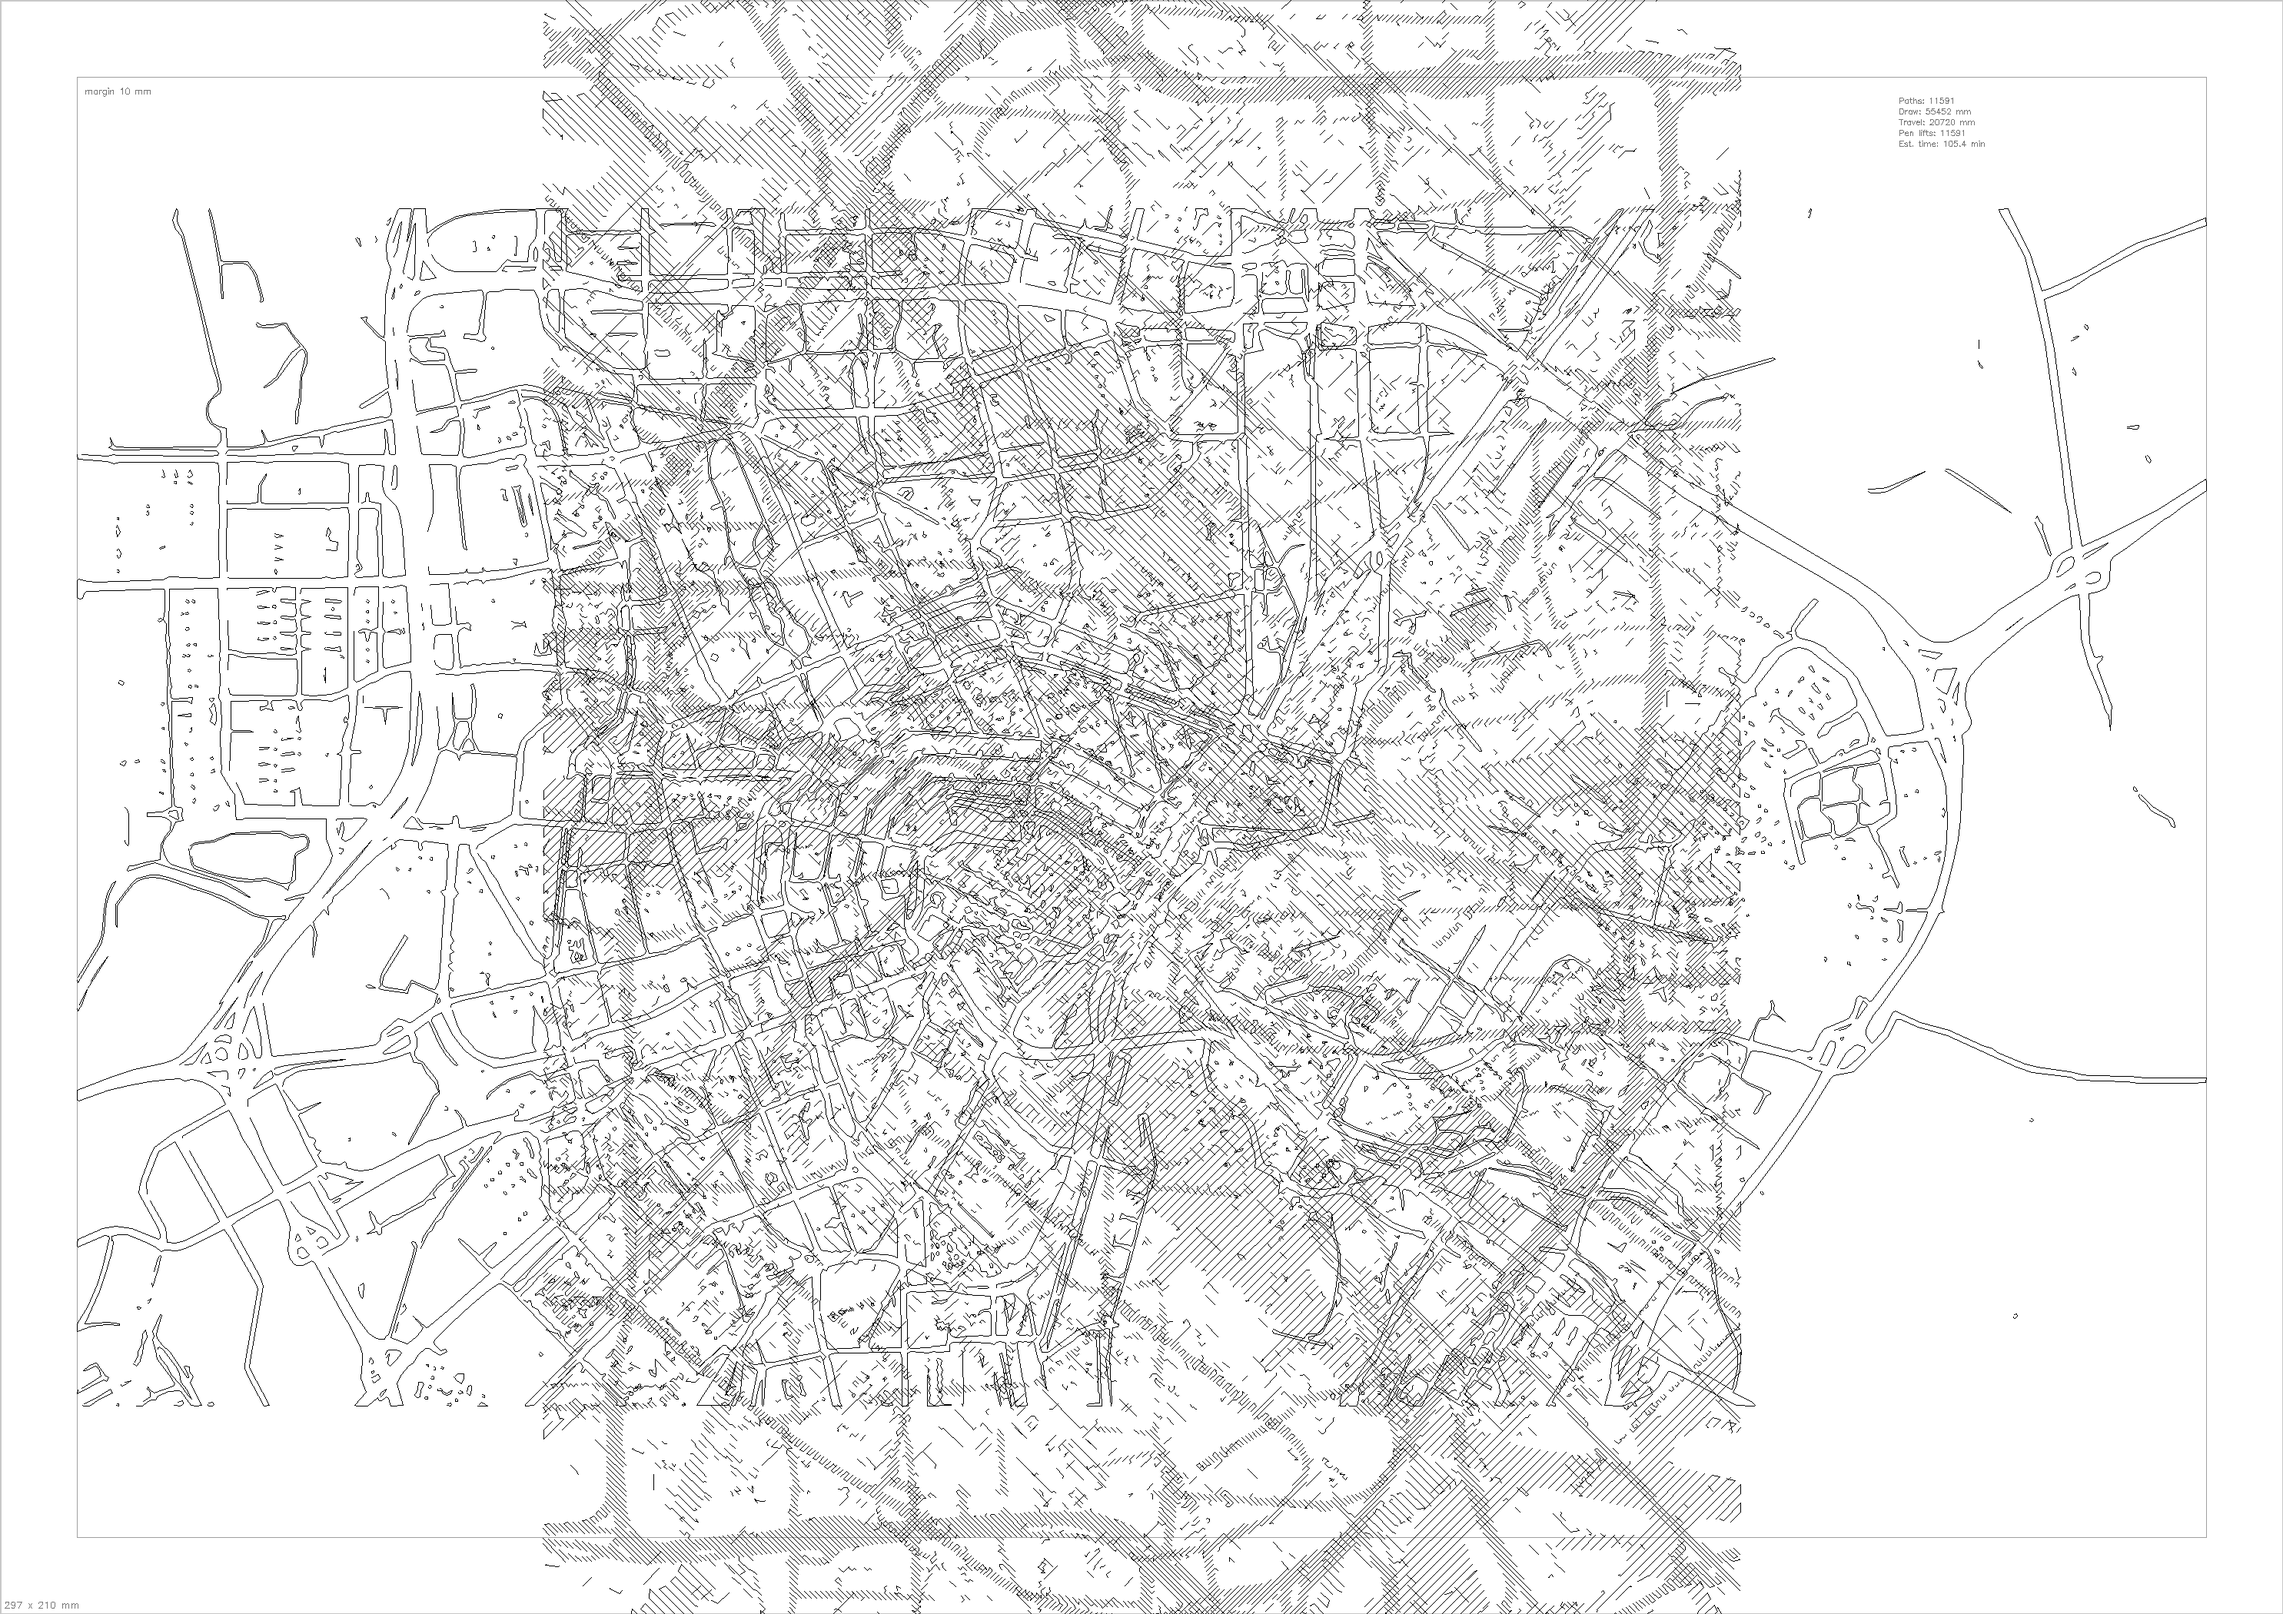
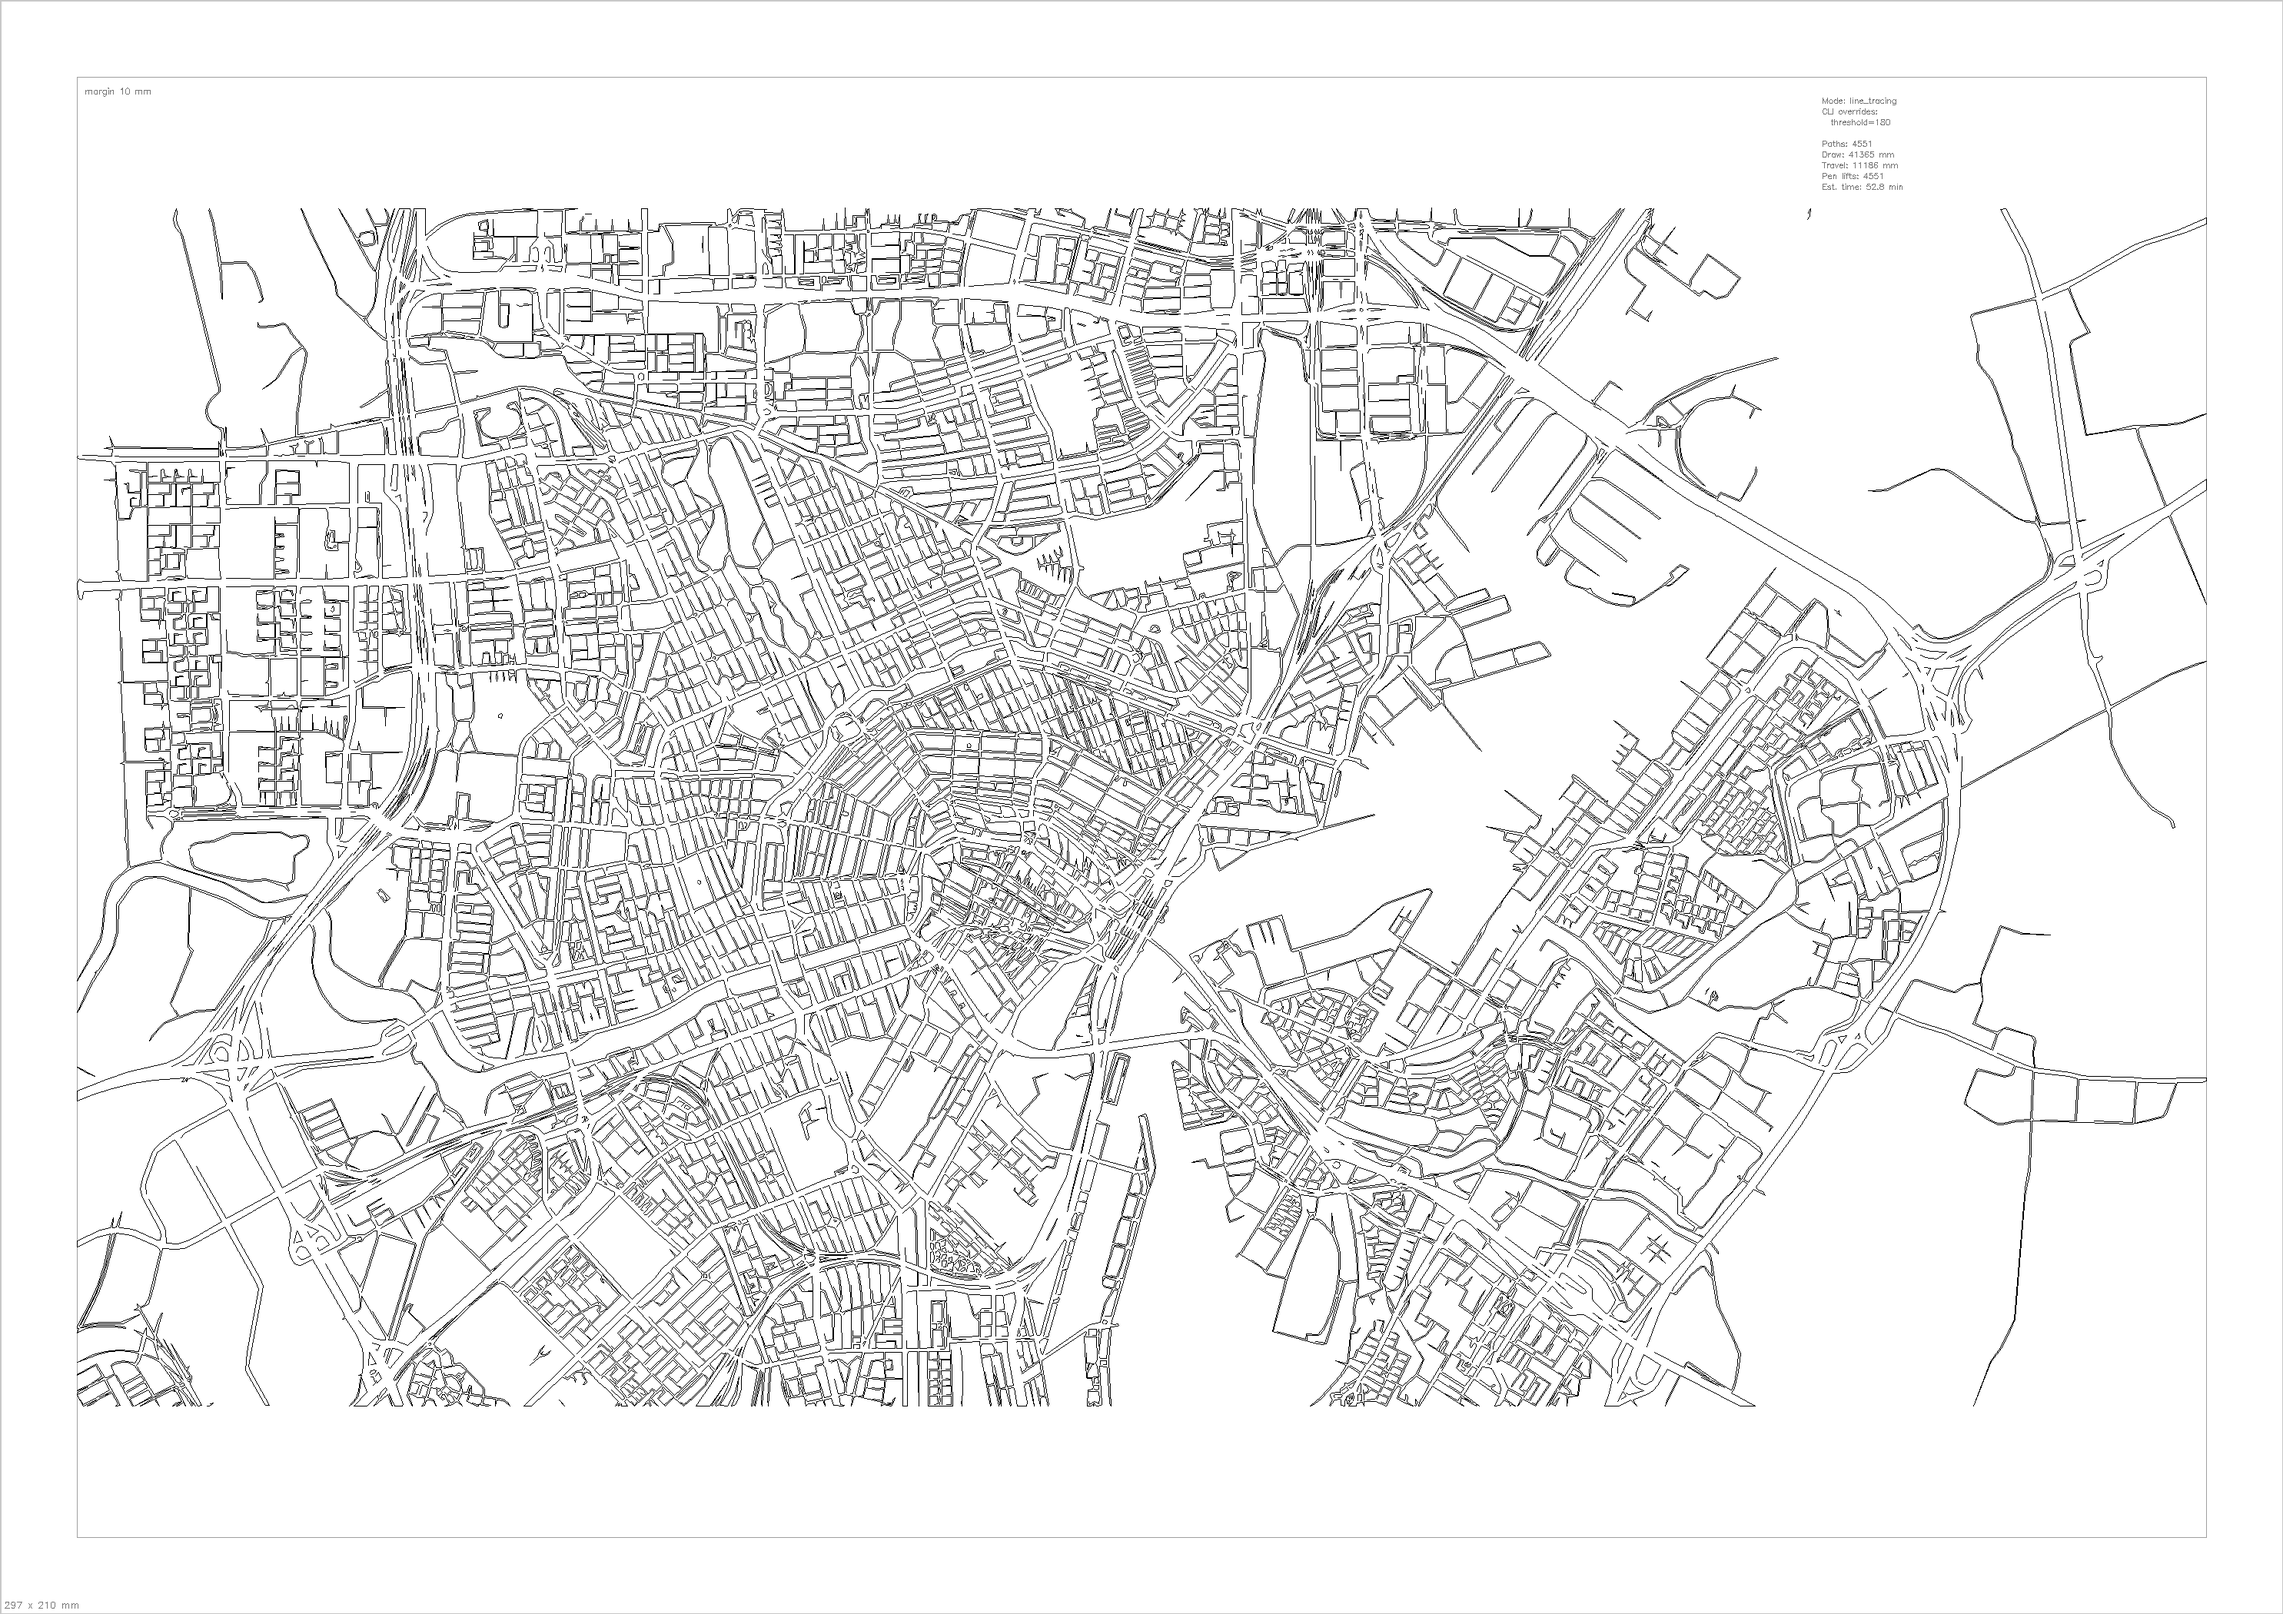
Fix hatching rotation misalignment and add mode/config info to preview
- Fix rotation matrix center-shift in _hatch_mask_at_angle: use the
  warpAffine matrix (which maps dst->src) directly for coordinate
  transform instead of a manually computed inverse with incorrect shift.
- Add mode name, CLI overrides, and stats to preview annotations so
  each preview image is self-documenting.
- Extend config summary with mode-specific parameters for hatching,
  flow_imager, and line_tracing modes.

diff --git a/robot_control/scripts/run_lineart_tracer.py b/robot_control/scripts/run_lineart_tracer.py
@@ -617,17 +617,30 @@ def render_machine_preview(
         (mx, my + 12), font, font_scale * 0.9, font_color, thickness,
     )
 
-    # Stats annotation (top-right area inside margin)
+    # Stats + config annotation (top-right area inside margin)
     if stats:
-        info_lines = [
-            f"Paths: {stats.get('paths', '?')}",
-            f"Draw: {stats.get('draw_mm', 0):.0f} mm",
-            f"Travel: {stats.get('travel_mm', 0):.0f} mm",
-            f"Pen lifts: {stats.get('pen_lifts', '?')}",
-            f"Est. time: {stats.get('estimated_time_min', 0):.1f} min",
-        ]
+        info_lines: list[str] = []
+
+        # Mode line
+        mode = stats.get("mode", "?")
+        info_lines.append(f"Mode: {mode}")
+
+        # CLI overrides (only values that differ from config defaults)
+        overrides = stats.get("cli_overrides", [])
+        if overrides:
+            info_lines.append("CLI overrides:")
+            for ov in overrides:
+                info_lines.append(f"  {ov}")
+
+        info_lines.append("")
+        info_lines.append(f"Paths: {stats.get('paths', '?')}")
+        info_lines.append(f"Draw: {stats.get('draw_mm', 0):.0f} mm")
+        info_lines.append(f"Travel: {stats.get('travel_mm', 0):.0f} mm")
+        info_lines.append(f"Pen lifts: {stats.get('pen_lifts', '?')}")
+        info_lines.append(f"Est. time: {stats.get('estimated_time_min', 0):.1f} min")
+
         sx, sy = mm_to_canvas(
-            transform.draw_left + transform.draw_width - 40.0,
+            transform.draw_left + transform.draw_width - 50.0,
             transform.draw_bottom + transform.draw_height - 2.0,
         )
         for k, line in enumerate(info_lines):
@@ -725,24 +738,29 @@ def _hatch_mask_at_angle(
     """
     H, W = mask.shape
     cx, cy = W / 2.0, H / 2.0
-    theta = -math.radians(angle_deg)
-
-    # Rotate mask so hatch lines become horizontal rows
-    rot_mat = cv2.getRotationMatrix2D((cx, cy), angle_deg, 1.0)
     diag = int(math.ceil(math.sqrt(H * H + W * W)))
-    # Shift center so rotated image fits
-    rot_mat[0, 2] += (diag - W) / 2.0
-    rot_mat[1, 2] += (diag - H) / 2.0
+    new_cx, new_cy = diag / 2.0, diag / 2.0
+
+    # Build rotation matrix that maps dst (rotated) -> src (original).
+    # cv2.warpAffine uses M to look up src pixels for each dst pixel.
+    rot_mat = cv2.getRotationMatrix2D((cx, cy), angle_deg, 1.0)
+
+    # Correct center-shift for enlarged canvas: (cx,cy) in dst must map
+    # to (cx,cy) in src after the canvas grows to (diag x diag).
+    sx = new_cx - cx
+    sy = new_cy - cy
+    rot_mat[0, 2] -= rot_mat[0, 0] * sx + rot_mat[0, 1] * sy
+    rot_mat[1, 2] -= rot_mat[1, 0] * sx + rot_mat[1, 1] * sy
+
     rot_mask = cv2.warpAffine(
         mask.astype(np.uint8), rot_mat, (diag, diag),
         flags=cv2.INTER_NEAREST, borderValue=0,
     )
 
-    # Inverse rotation matrix (to map rotated coords back to original)
-    cos_t = math.cos(theta)
-    sin_t = math.sin(theta)
-    shift_x = (diag - W) / 2.0
-    shift_y = (diag - H) / 2.0
+    # rot_mat already maps dst -> src, so applying it to rotated-frame
+    # points gives original-frame coordinates directly.
+    m00, m01, m02 = rot_mat[0]
+    m10, m11, m12 = rot_mat[1]
 
     # Process horizontal scanlines at pitch_px spacing.
     # Alternate left-right / right-left per row for zigzag connectivity.
@@ -766,10 +784,8 @@ def _hatch_mask_at_angle(
                 continue
             xs_rot = np.arange(s, e, dtype=np.float64)
             ys_rot = np.full_like(xs_rot, row, dtype=np.float64)
-            xs_shifted = xs_rot - shift_x - cx
-            ys_shifted = ys_rot - shift_y - cy
-            xs_orig = cos_t * xs_shifted - sin_t * ys_shifted + cx
-            ys_orig = sin_t * xs_shifted + cos_t * ys_shifted + cy
+            xs_orig = m00 * xs_rot + m01 * ys_rot + m02
+            ys_orig = m10 * xs_rot + m11 * ys_rot + m12
             row_segs.append(np.column_stack((xs_orig, ys_orig)))
 
         # Reverse segment order and each segment for odd rows (zigzag)
@@ -2668,9 +2684,50 @@ def main() -> None:
             ("blur_radius", str(args.blur_radius),
              args.blur_radius != _LINEART_HATCH.get("blur_radius", 10)),
         ])
+    elif args.mode == "hatching":
+        _show.extend([
+            ("n_zones", str(args.n_zones),
+             args.n_zones != _LINEART_HTNG.get("n_zones", 4)),
+            ("hatching_angles", str(args.hatching_angles),
+             args.hatching_angles != _LINEART_HTNG.get("angles", [45.0])),
+            ("hatching_blur", str(args.hatching_blur),
+             args.hatching_blur != _LINEART_HTNG.get("blur_radius", 5)),
+            ("hatching_scale", str(args.hatching_scale),
+             args.hatching_scale != _LINEART_HTNG.get("image_scale", 1.0)),
+            ("connect_gap", f"{args.connect_gap:.1f}",
+             args.connect_gap != _LINEART_HTNG.get("connect_gap_px", 5.0)),
+        ])
+    elif args.mode == "flow_imager":
+        _show.extend([
+            ("field_type", args.field_type,
+             args.field_type != _LINEART_FLOW.get("field_type", "noise")),
+            ("flow_seed", str(args.flow_seed),
+             args.flow_seed != _LINEART_FLOW.get("flow_seed", 42)),
+            ("n_fields", str(args.n_fields),
+             args.n_fields != _LINEART_FLOW.get("n_fields", 1)),
+            ("flow_min_sep", str(args.flow_min_sep),
+             args.flow_min_sep != _LINEART_FLOW.get("min_sep", 0.8)),
+            ("flow_max_sep", str(args.flow_max_sep),
+             args.flow_max_sep != _LINEART_FLOW.get("max_sep", 10.0)),
+        ])
+    elif args.mode == "line_tracing":
+        thr_val = args.threshold if args.threshold is not None else 128
+        thr_default = _LINEART_LT.get("threshold", None)
+        thr_default_val = thr_default if thr_default is not None else 128
+        _show.extend([
+            ("threshold", str(thr_val),
+             thr_val != thr_default_val),
+            ("turdsize", str(args.turdsize),
+             args.turdsize != _LINEART_LT.get("turdsize", 10)),
+        ])
+
+    # Collect CLI overrides for the preview annotation
+    _cli_overrides: list[str] = []
     for name, val, overridden in _show:
         flag = " *" if overridden else ""
         print(f"    {name}: {val}{flag}")
+        if overridden:
+            _cli_overrides.append(f"{name}={val}")
     print()
 
     # ---- Robot setup or dry-run ----
@@ -2740,6 +2797,10 @@ def main() -> None:
             dry_run=args.dry_run,
             skip_corners=args.skip_corners,
         )
+
+        # Inject mode/config info for the preview annotation
+        stats["mode"] = args.mode
+        stats["cli_overrides"] = _cli_overrides
 
         # In dry-run, always produce a machine-coordinate preview
         if args.dry_run:
